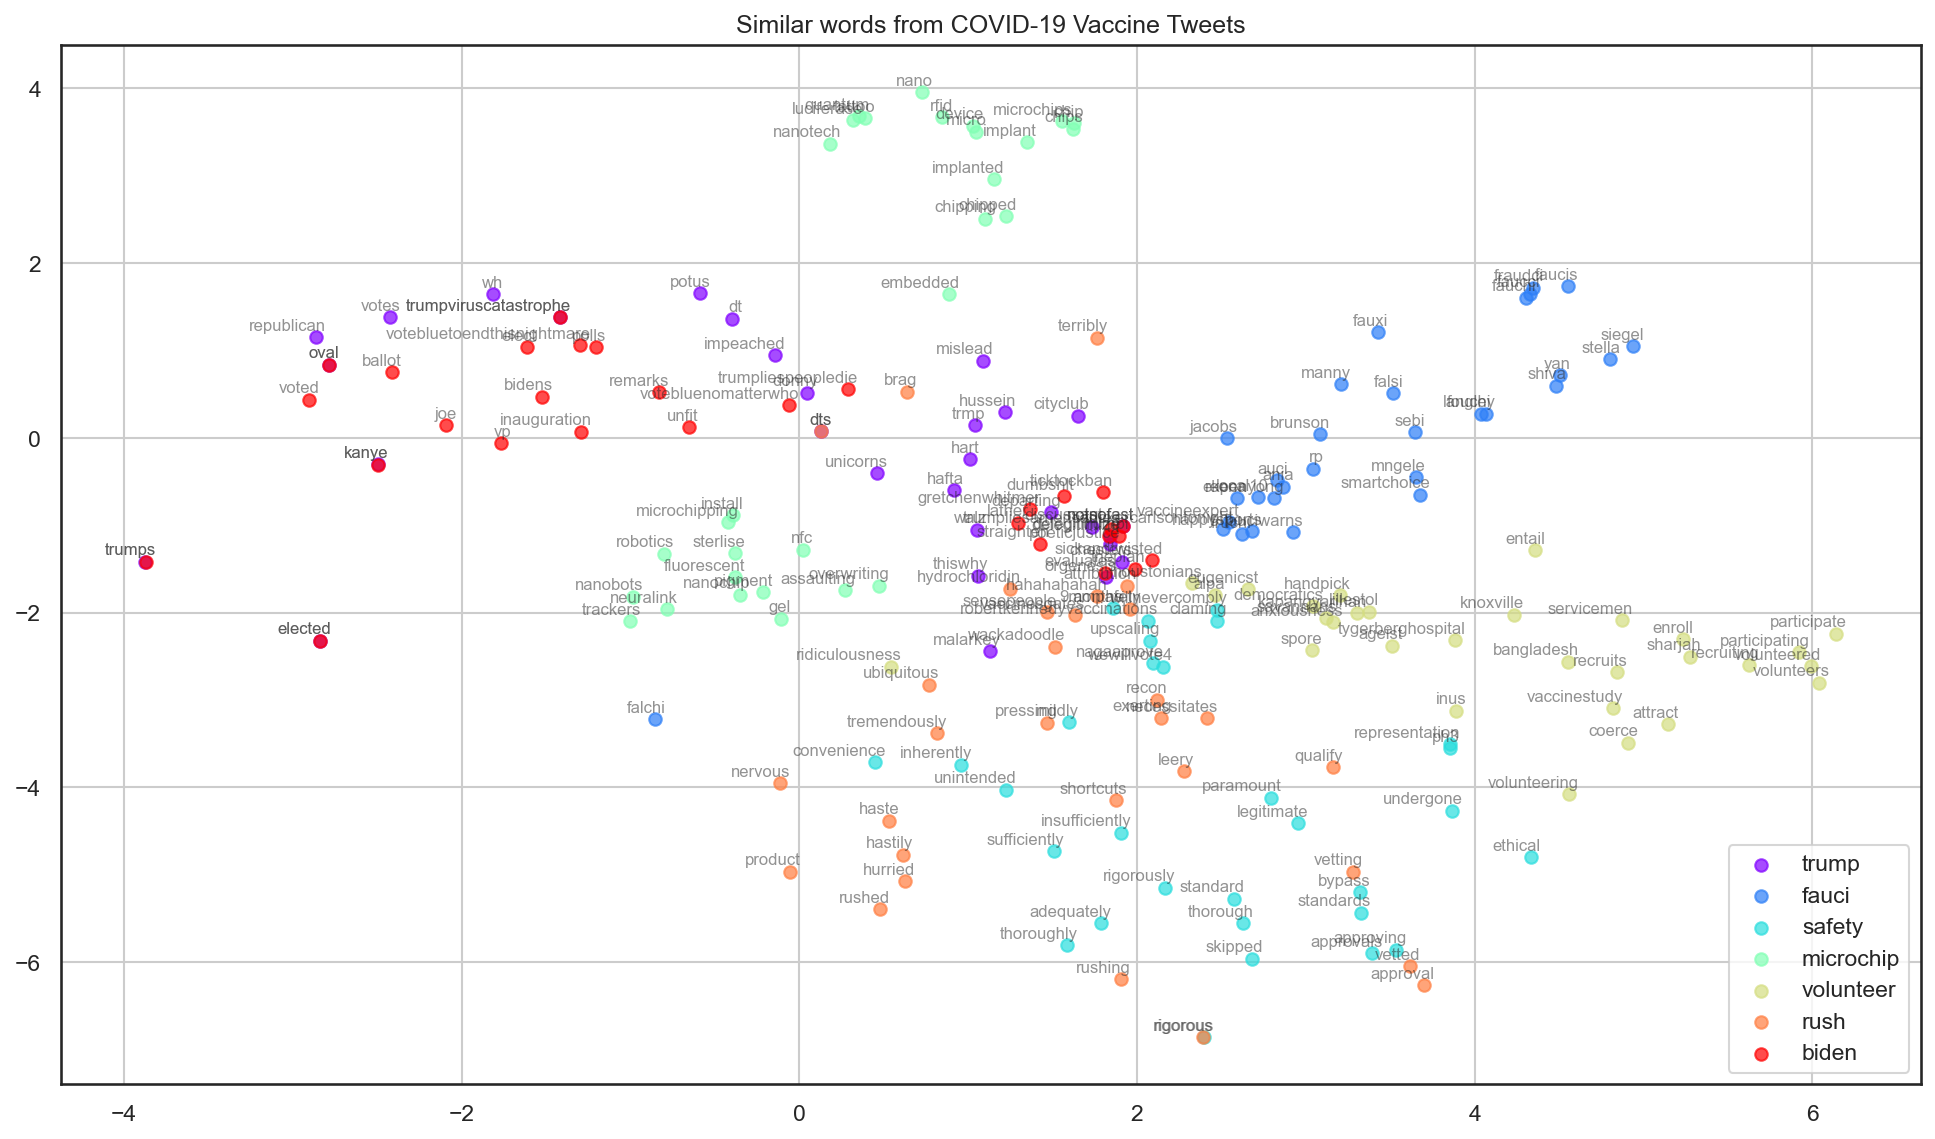
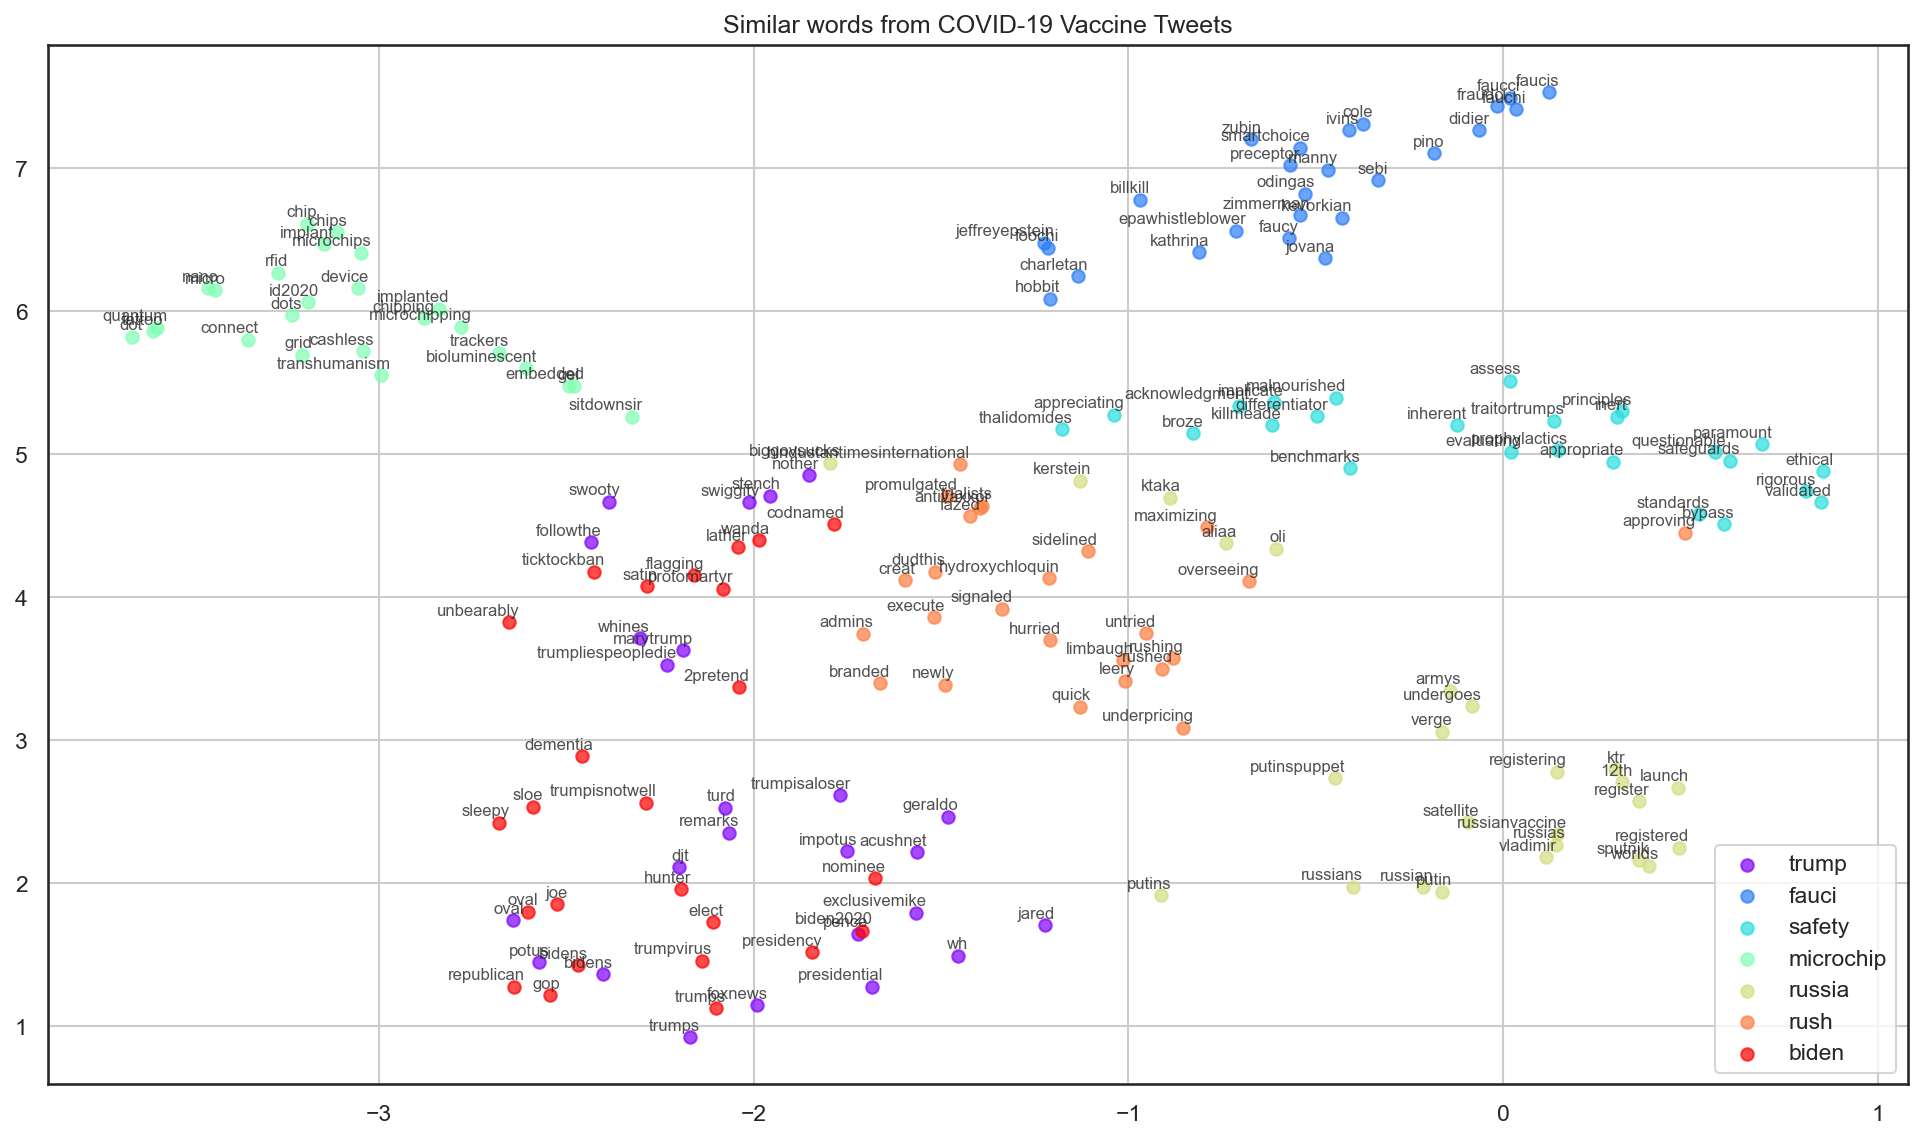
umap

diff --git a/src/models/train_model.py b/src/models/train_model.py
@@ -44,6 +44,7 @@ from gensim.models.doc2vec import TaggedDocument
 import multiprocessing
 
 from sklearn.manifold import TSNE
+import umap
 
 cores = multiprocessing.cpu_count()
 tqdm.pandas(desc="progress-bar")
@@ -161,7 +162,7 @@ class NLPClassifier():
         model_dmm.build_vocab([x for x in tqdm(train_tagged.values)])
 
         # train embeddings
-        for epoch in range(2):
+        for epoch in range(30):
             model_dmm.train(utils.shuffle([x for x in tqdm(train_tagged.values)]), total_examples=len(train_tagged.values), epochs=1)
             model_dmm.alpha -= 0.002
             model_dmm.min_alpha = model_dmm.alpha
@@ -176,12 +177,11 @@ class NLPClassifier():
         model_dmm.save('model_dmm.pkl.gz')
         key = 'model_dmm.pkl.gz'
 
-        #s3_obj = io.BytesIO('model_dmm.pkl.gz')
         self.s3_client.put_object(Bucket=BUCKET, Body='model_dmm.pkl.gz', Key=key)
 
         self.logger.info('fit word2vec model for covid-19 vaccine tweets, saved to s3...')
     
-    def tsne_on_vectors(self, mdl, keys):
+    def umap_on_vectors(self, mdl, keys):
 
         '''Loads trained models and word embeddings for covid-19 vaccine tweets and prior to
         doing any visualization.'''
@@ -194,25 +194,27 @@ class NLPClassifier():
         for word in keys:
             embeddings = []
             words = []
-            for similar_word, _ in model.most_similar(word, topn=30):
+            for similar_word, _ in model.most_similar(word, topn=25):
                 words.append(similar_word)
                 embeddings.append(model[similar_word])
             self.embedding_clusters.append(embeddings)
             self.word_clusters.append(words)
         
-        # run t-sne
+        # run umap
         self.embedding_clusters = np.array(self.embedding_clusters)
         n, m, k = self.embedding_clusters.shape
-        tsne_model_en_2d = TSNE(perplexity=55, n_components=2, init='pca', n_iter=3500, random_state=42)
-        self.embeddings_en_2d = np.array(tsne_model_en_2d.fit_transform(self.embedding_clusters.reshape(n * m, k))).reshape(n, m, 2)
-        
-        self.logger.info('selected interesting word vectors and ran t-sne...')
 
-    def visualize_tsne_embeddings(self, keys):
+        self.umap_model_en_2d = umap.UMAP(n_neighbors=10, random_state=42)
+
+        self.embeddings_en_2d_umap = np.array(self.umap_model_en_2d.fit_transform(self.embedding_clusters.reshape(n * m, k))).reshape(n, m, 2)
+        
+        self.logger.info('selected interesting word vectors and ran umap...')
+
+    def visualize_umap_embeddings(self, keys):
 
         '''Creates visualization of the learned tnse + word2vec clusters'''
 
-        def tsne_plot_similar_words(title, labels, embedding_clusters, word_clusters, filename=None):
+        def umap_plot_similar_words(title, labels, embedding_clusters, word_clusters, filename=None):
 
             plt.figure(figsize=(16, 9))
             colors = cm.rainbow(np.linspace(0, 1, len(labels)))
@@ -221,7 +223,7 @@ class NLPClassifier():
                 y = embeddings[:, 1]
                 plt.scatter(x, y, c=color, alpha=0.7, label=label)
                 for i, word in enumerate(words):
-                    plt.annotate(word, alpha=0.5, xy=(x[i], y[i]), xytext=(5, 2),
+                    plt.annotate(word, alpha=0.8, xy=(x[i], y[i]), xytext=(5, 2),
                                 textcoords='offset points', ha='right', va='bottom', size=8)
             plt.legend(loc=4)
             plt.title(title)
@@ -230,7 +232,62 @@ class NLPClassifier():
                 plt.savefig(self.graphics_path.joinpath(filename).resolve(), format='png', dpi=150, bbox_inches='tight')
             plt.show()
         
-        tsne_plot_similar_words('Similar words from COVID-19 Vaccine Tweets', keys, self.embeddings_en_2d, self.word_clusters, 'similar_words.png')
+        umap_plot_similar_words('Similar words from COVID-19 Vaccine Tweets', keys, self.embeddings_en_2d_umap, self.word_clusters, 'similar_words.png')
+
+    def infer_new_vectors_umap(self, df_in, mdl, root_form):
+
+        '''Infers doc2vec vectors on new tweets, transforms using UMAP'''
+
+        model = Doc2Vec.load(mdl)
+
+        df = df_in[[root_form, 'tweet_id']]
+        df['sent'] = df[root_form].apply(lambda x: ast.literal_eval(x))
+        df['sent'] = df['sent'].str.join(' ')
+        df['tag'] = str(df.tweet_id)
+
+        def prep_text(text):
+            tokens = []
+            for t in text.split(' '):
+                tokens.append(t)
+            return tokens
+
+        # tag document
+        tweets_tagged = df.apply(
+            lambda x: TaggedDocument(words=prep_text(x['sent']), tags=[x.tag]), axis=1)
+        
+        # infer the word vectors using trained model
+        def vec_for_learning(model_in, tagged_docs):
+            sents = tagged_docs.values
+            targets, vects = zip(*[(doc.tags[0], model_in.infer_vector(doc.words, steps=20)) for doc in sents])
+            return targets, vects
+        
+        tag_ids, embedded_tweets = vec_for_learning(model, tweets_tagged)
+        self.transformed_new_tweets_umap = self.umap_model_en_2d.transform(embedded_tweets)
+        self.logger.info('inferred new word vectors on incoming tweets, applied dimensionality reduction...')
+
+    def visualize_new_tweets(self, keys):
+
+        '''Creates visualization of the inferred vectors of new tweets, overlays on top of priors.'''
+
+        plt.figure(figsize=(16, 9))
+        colors = cm.rainbow(np.linspace(0, 1, len(keys)))
+        for label, embeddings, words, color in zip(keys, self.embeddings_en_2d_umap, self.word_clusters, colors):
+            x = embeddings[:, 0]
+            y = embeddings[:, 1]
+            plt.scatter(x, y, c=color, alpha=0.7, label=label)
+            for i, word in enumerate(words):
+                plt.annotate(word, alpha=0.8, xy=(x[i], y[i]), xytext=(5, 2),
+                            textcoords='offset points', ha='right', va='bottom', size=8)
+        # overlay new tweets
+        plt.plot(self.transformed_new_tweets_umap[:, 0], self.transformed_new_tweets_umap[:, 1], 'o', color='gray')
+
+        plt.legend(loc=4)
+        plt.title('Tweet Embeddings: COVID-19 Vaccine')
+        plt.grid(True)
+
+        plt.savefig(self.graphics_path.joinpath('new_tweets_visualized').resolve(), format='png', dpi=150, bbox_inches='tight')
+        plt.show()
+
 
     def plot_confusion_matrix(self, y_true, y_pred, classes, name, normalize=False, title=None, cmap='bwr'):
     
@@ -330,11 +387,11 @@ class NLPClassifier():
     
         self.load_data()
         self.isolate_datasets()
-        self.fit_tfidf_flu_cv19(
-            label='flu_intention__tfidf_lemmas',
-            root_form='tweet_tokens_formal',
-            flu_df=self.flu_df_intention
-        )
+        # self.fit_tfidf_flu_cv19(
+        #     label='flu_intention__tfidf_lemmas',
+        #     root_form='tweet_tokens_formal',
+        #     flu_df=self.flu_df_intention
+        # )
         # self.fit_SGD(
         #     data_label='flu_intention__tfidf_tokens',
         #     conf_mat_lbl='flu_intention_tfidf_tokens',
@@ -345,16 +402,24 @@ class NLPClassifier():
         #     root_form='tweet_tokens_formal',
         #     label='covid_vaccines__doc2vec_tokens'
         # )
-        self.fit_doc2vec_cv19(
-            label='dmm_covid.model',
+        # self.fit_doc2vec_cv19(
+        #     label='dmm_covid.model',
+        #     root_form='tweet_tokens_formal'
+        # )
+        self.umap_on_vectors(
+            mdl='model_dmm.pkl.gz',
+            keys=['trump', 'fauci', 'safety', 'microchip', 'russia', 'rush', 'biden']
+        )
+        self.visualize_umap_embeddings(
+            keys=['trump', 'fauci', 'safety', 'microchip', 'russia', 'rush', 'biden']
+        )
+        self.infer_new_vectors_umap(
+            mdl='model_dmm.pkl.gz',
+            df_in=self.features_cv19_df.iloc[0:100, :],
             root_form='tweet_tokens_formal'
         )
-        self.tsne_on_vectors(
-            mdl='model_dmm.model',
-            keys=['trump', 'fauci', 'safety', 'microchip', 'volunteer', 'rush', 'biden']
-        )
-        self.visualize_tsne_embeddings(
-            keys=['trump', 'fauci', 'safety', 'microchip', 'volunteer', 'rush', 'biden']
+        self.visualize_new_tweets(
+            keys=['trump', 'fauci', 'safety', 'microchip', 'russia', 'rush', 'biden']
         )
 
 def main():
